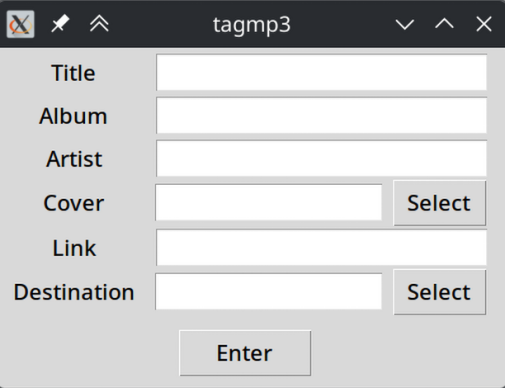
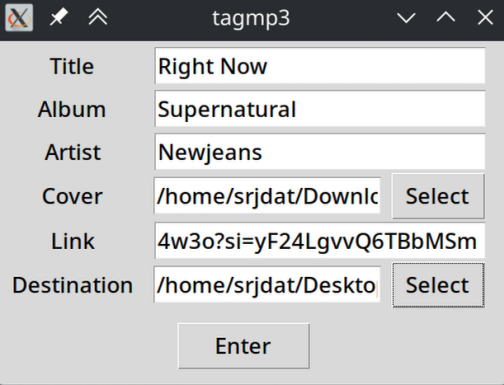
new gui image

diff --git a/README.md b/README.md
@@ -38,12 +38,14 @@ Title Artist Album Album_Artist Front_Cover Youtube_Link
 After running `tagmp3` a GUI will pop up asking for Title, Artist, Album, Cover, Youtube Link, and Destination folder.   
 Cover and Destination will give you the abilitiy to choose your own through a dialog box (click select button to access the dialog box). 
 
-![Enter all the fields freely with no need to worry about quotes](images/image.png)
+![GUI Image](images/image.png)   
+Enter all the fields freely with no need to worry about quotes
 
 ## After running
 Go to Spotify settings and turn off and on the folder that you are using for local files. 
 
-![Turn this off and on](images/image-1.png)
+![Spotify local files source](images/image-1.png)
+Turn this off and on
 
 Your newly tagged track should appear with the correct metadata!
 